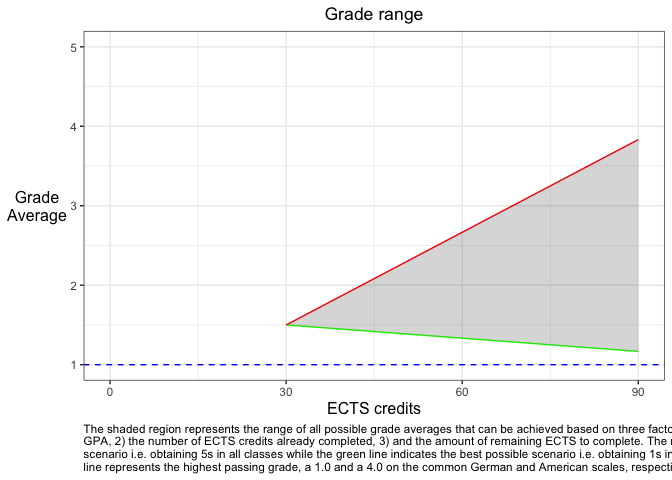
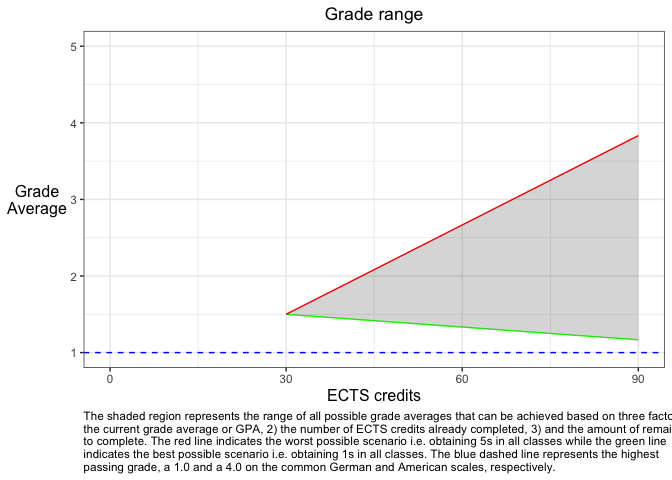
Add new arg to plot fxn and rebuild readme

diff --git a/README.md b/README.md
@@ -54,7 +54,8 @@ plot_grade_range(
   current_grade = 1.5,
   remaining_ects = 60,
   max_passing_grade = 1,
-  min_passing_grade = 5
+  min_passing_grade = 5,
+  caption_width = 120
 )
 ```
 
